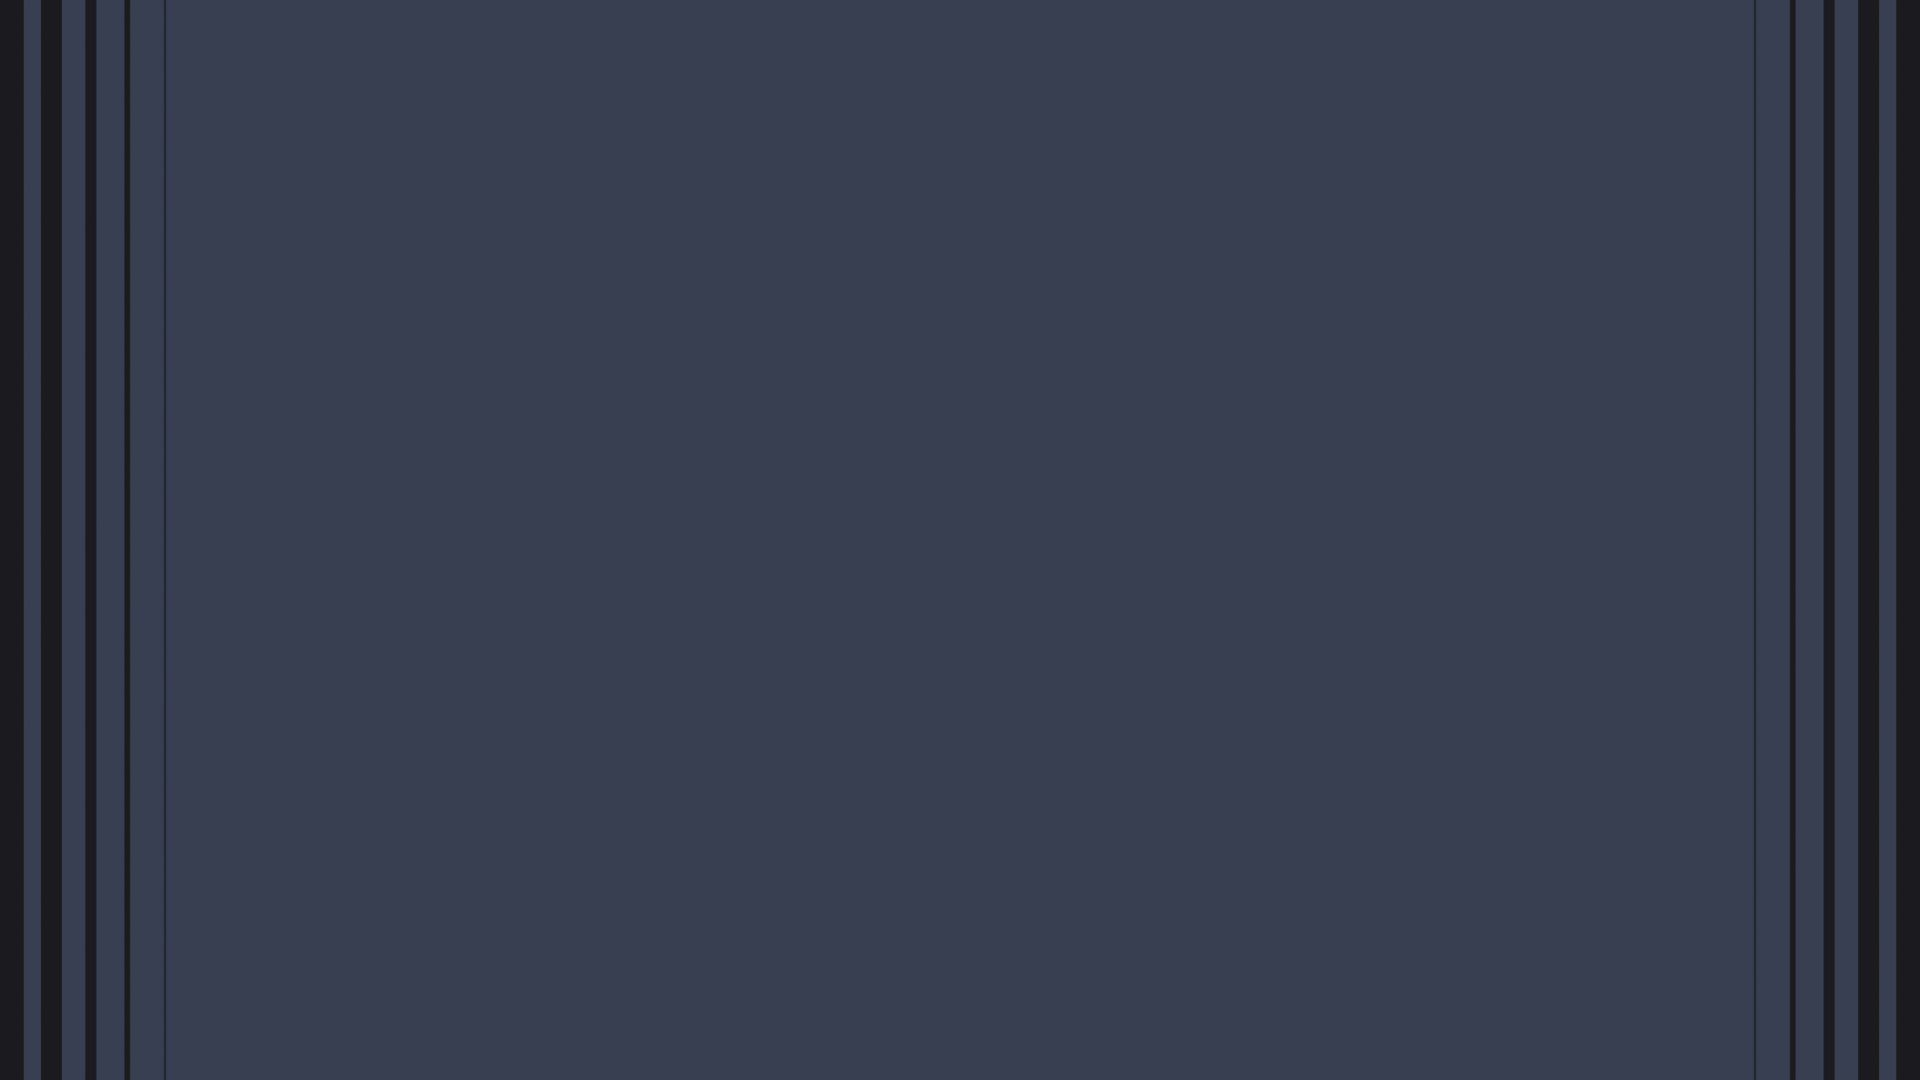
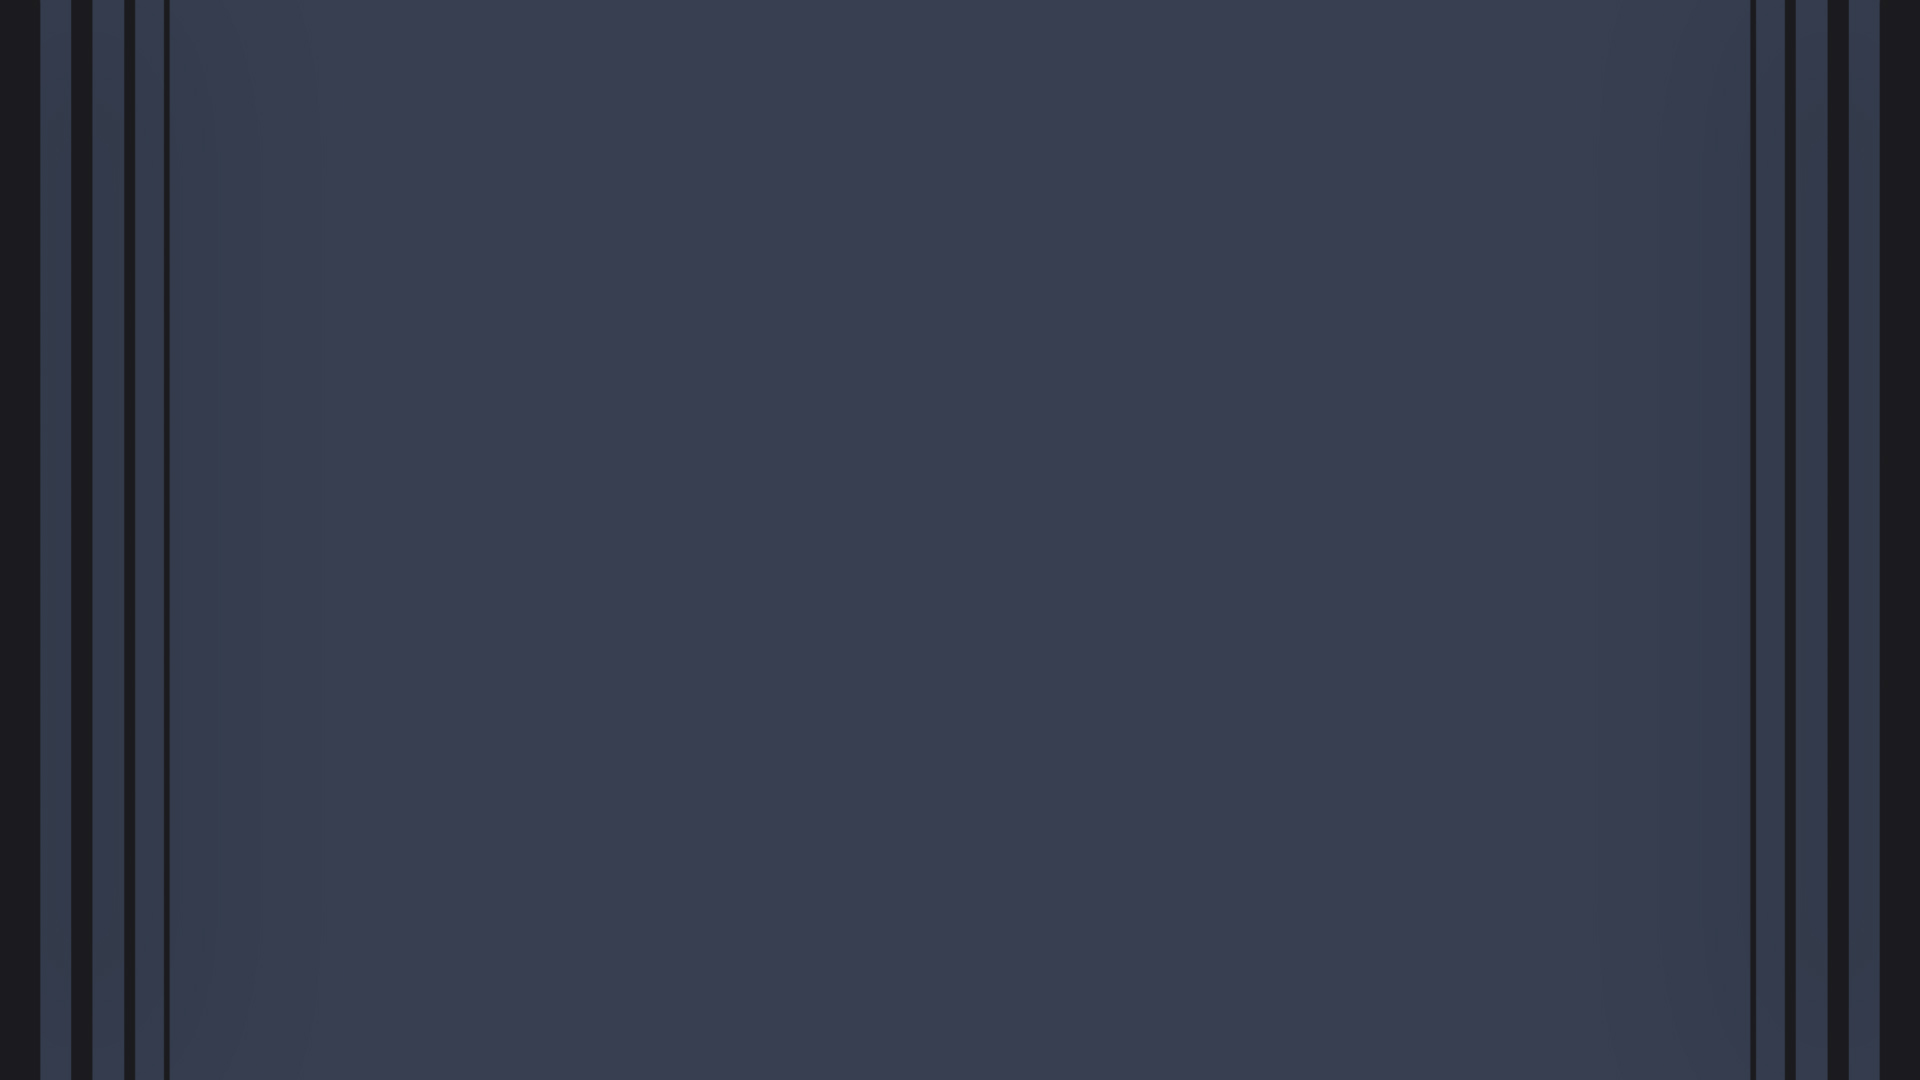
finalisation du fond, ajout d'ombre sur le header ( branche dev )

Changed region(s): [[0.9062, 0.0, 1.0, 1.0], [0.0, 0.0, 0.0938, 1.0]]

diff --git a/style.css b/style.css
@@ -2,6 +2,7 @@
     --text-color: #fdfdff;
     --dark-blue: #1b1b1e;
     --light-blue: #373F51;
+    --shadow: #000000;
 }
 
 body {
@@ -16,6 +17,7 @@ header {
     height: 60px;
     position: relative;
     top: 0;
+    box-shadow: 0px 5px 50px #000000;
 }
 
 header img {
